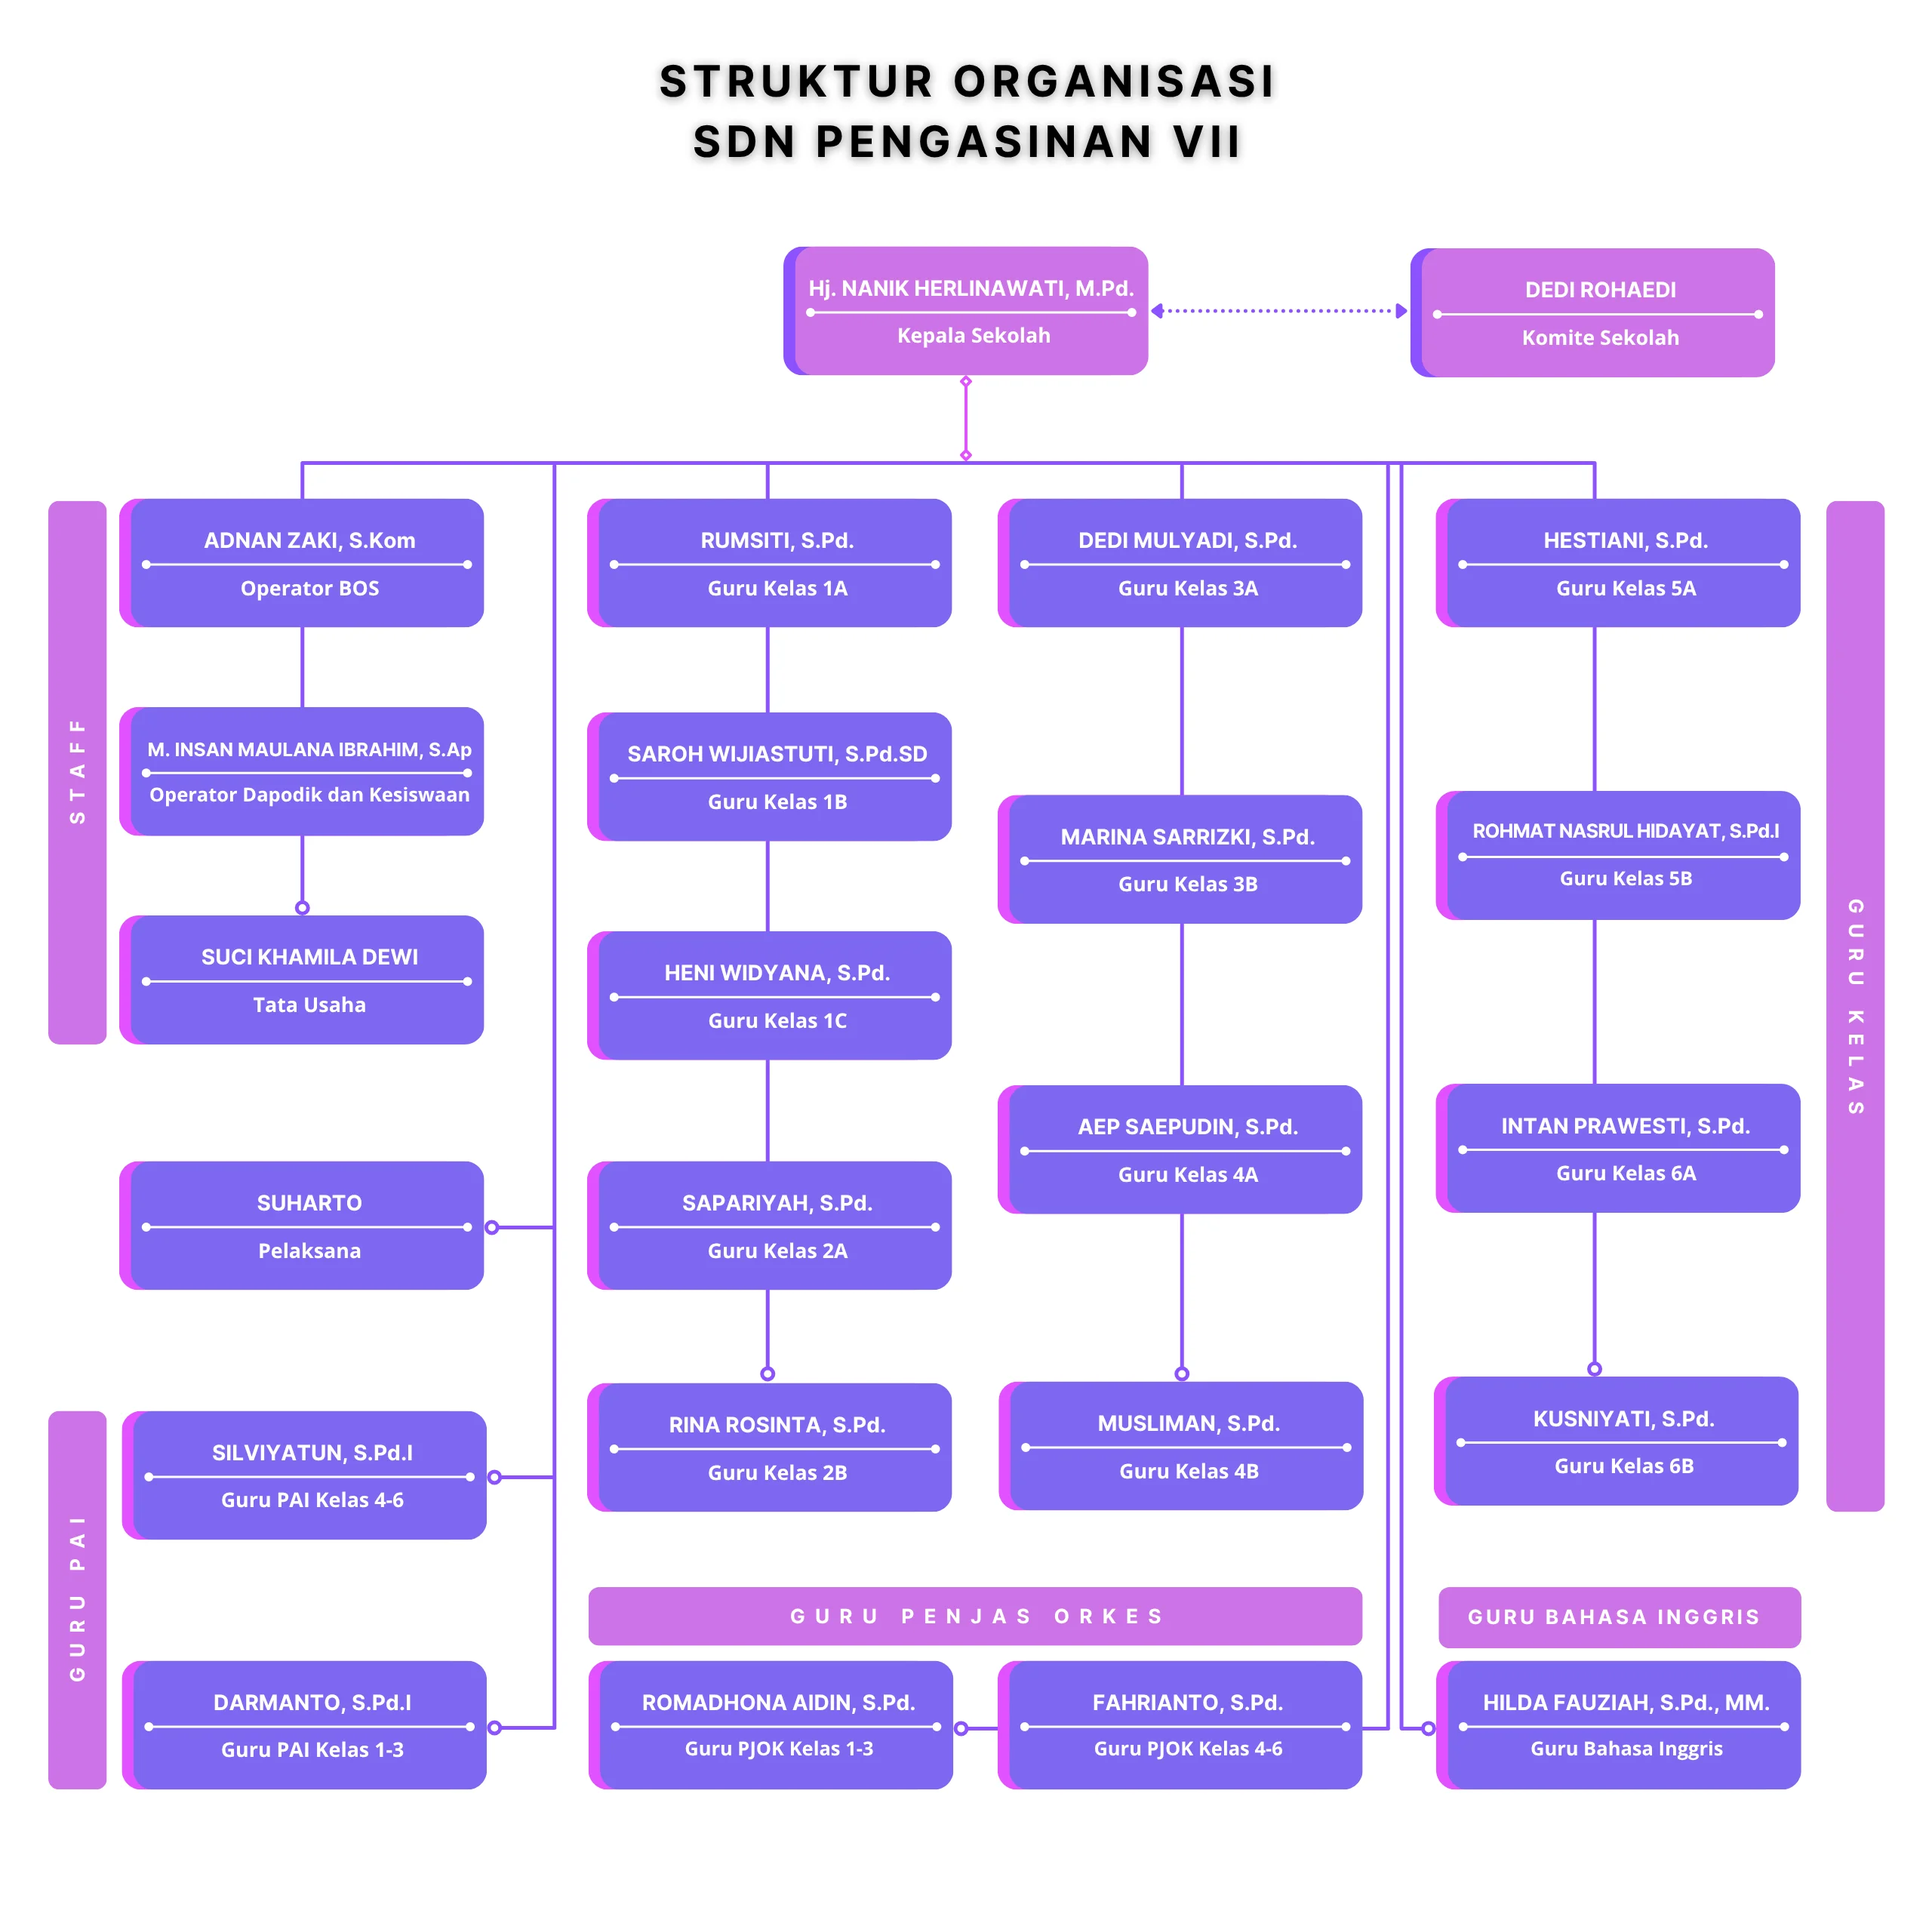
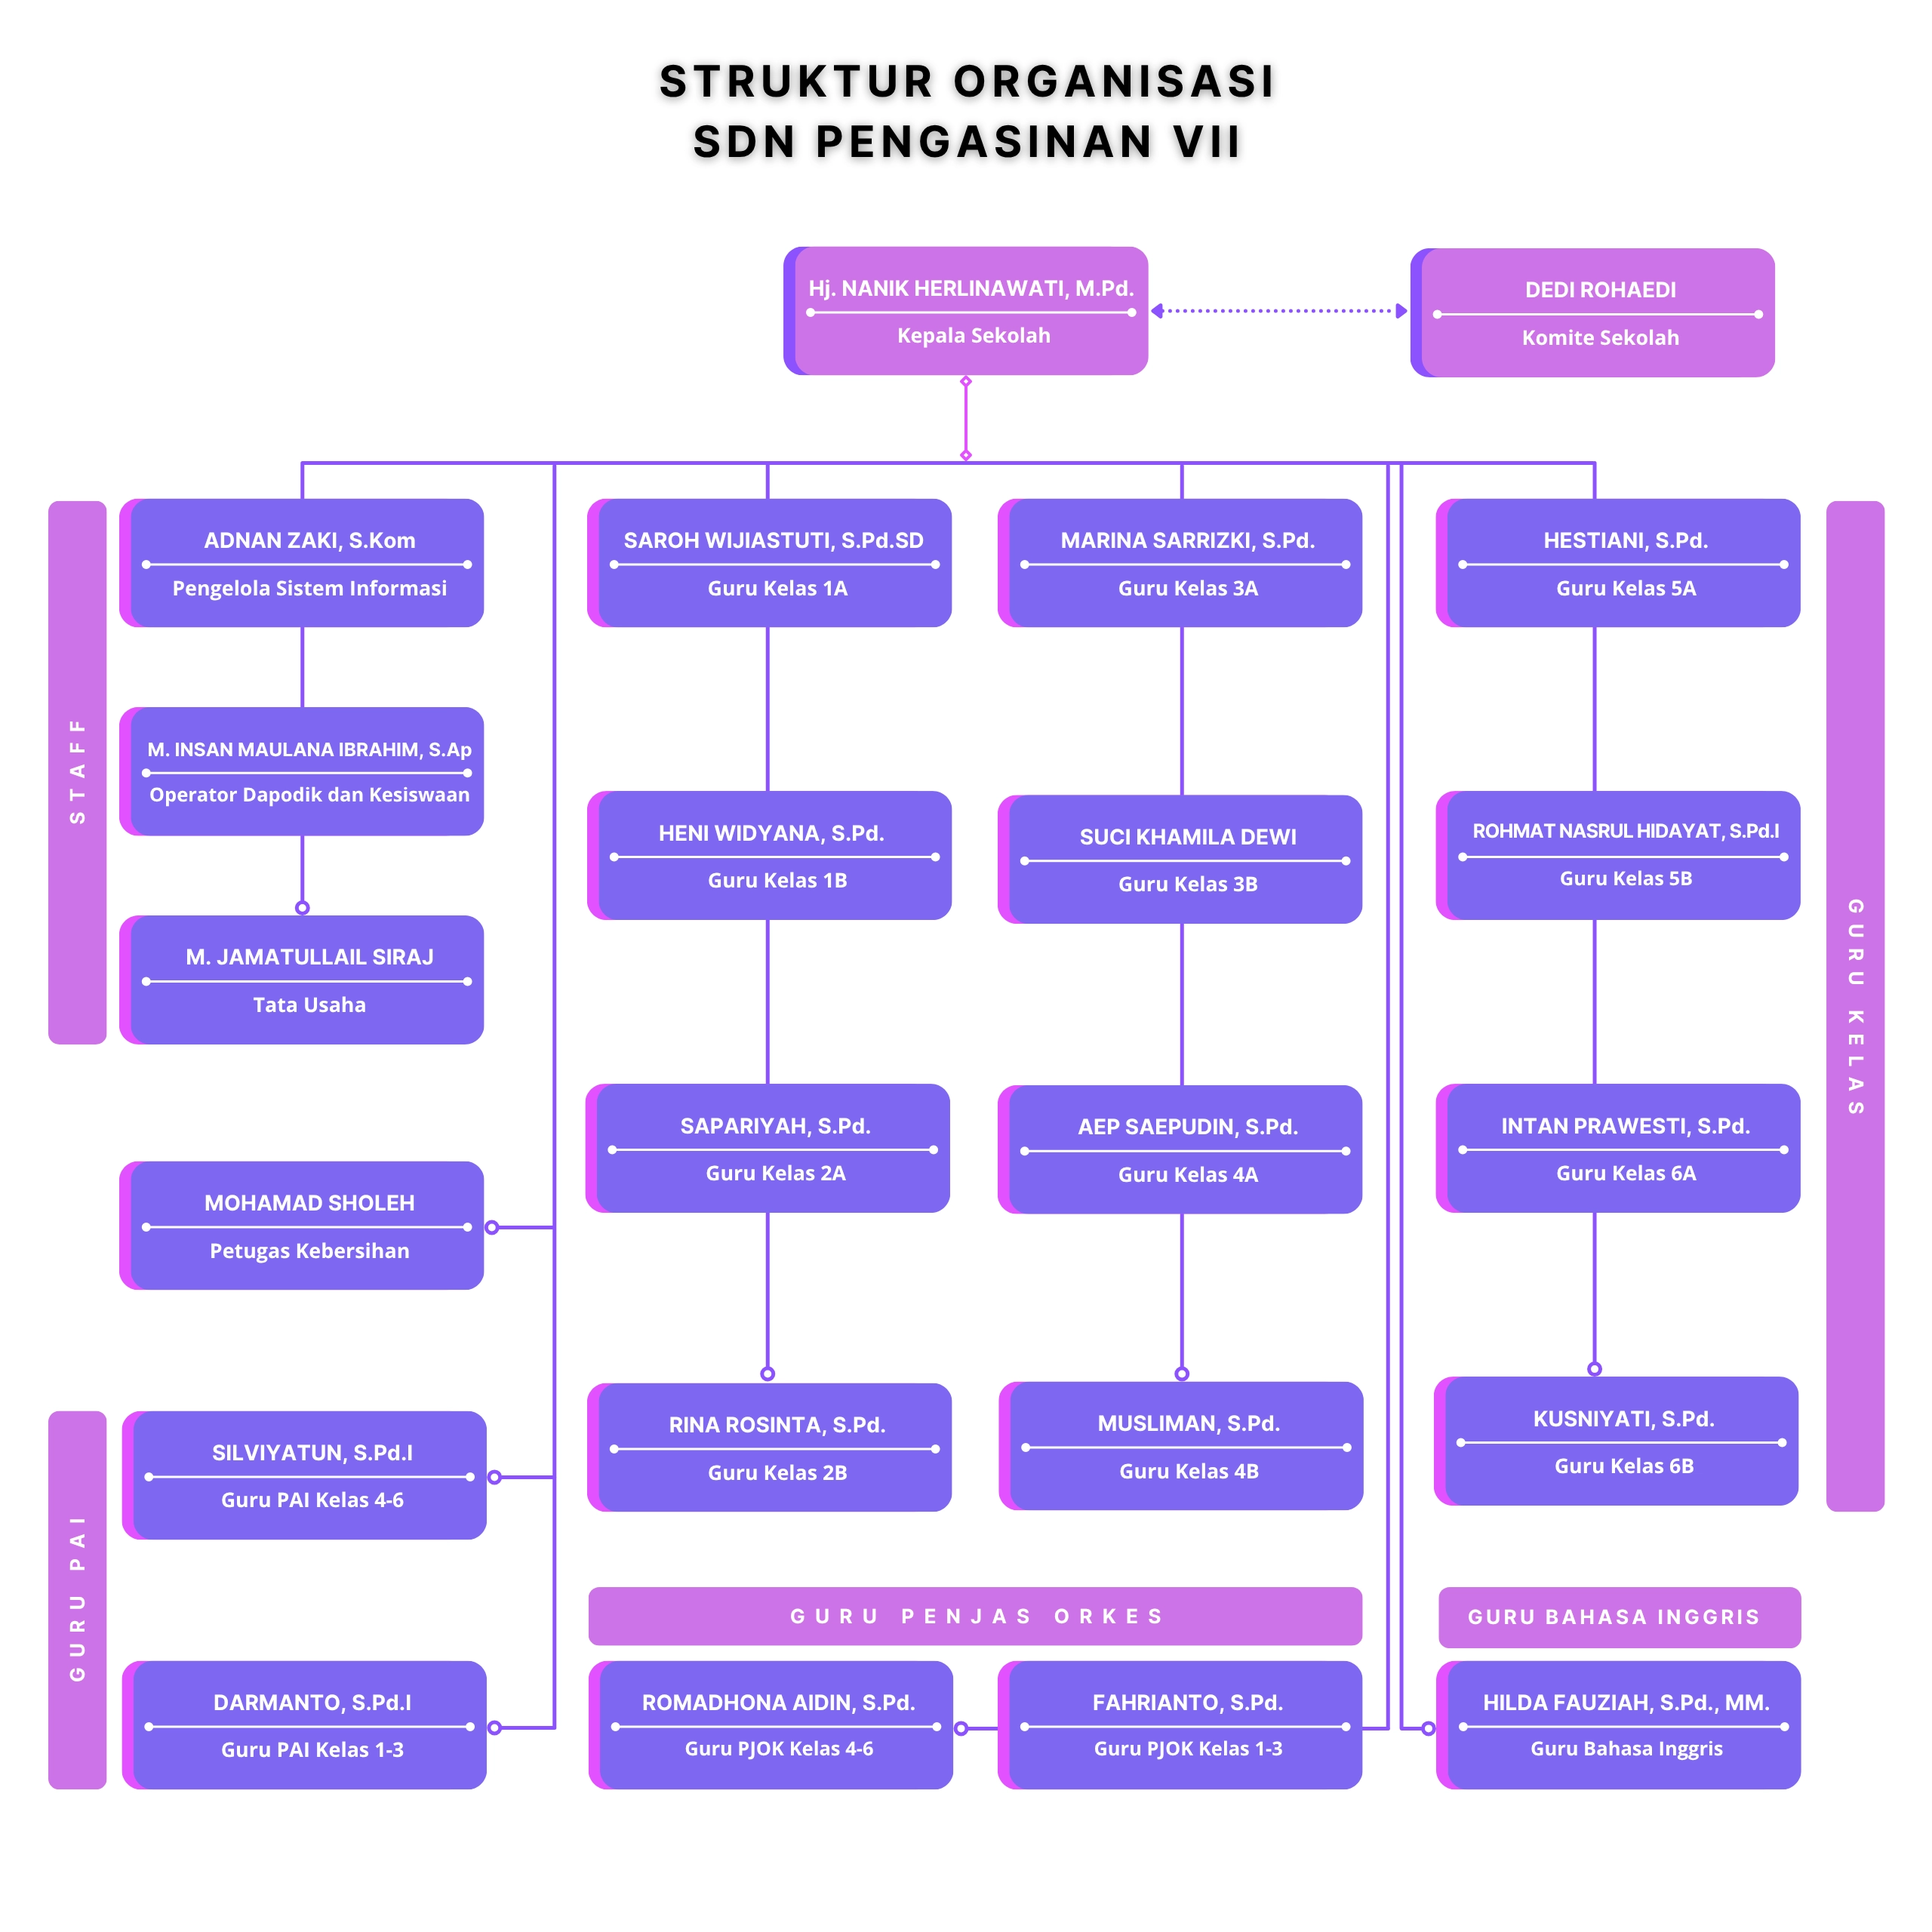
update school profile

diff --git a/app/Controllers/Profile.php b/app/Controllers/Profile.php
@@ -83,7 +83,7 @@ class Profile extends BaseController
             ],
             [
                 'title' => 'Peserta Didik',
-                'value' => '468'
+                'value' => '458'
             ],
             [
                 'title' => 'Pegawai',
